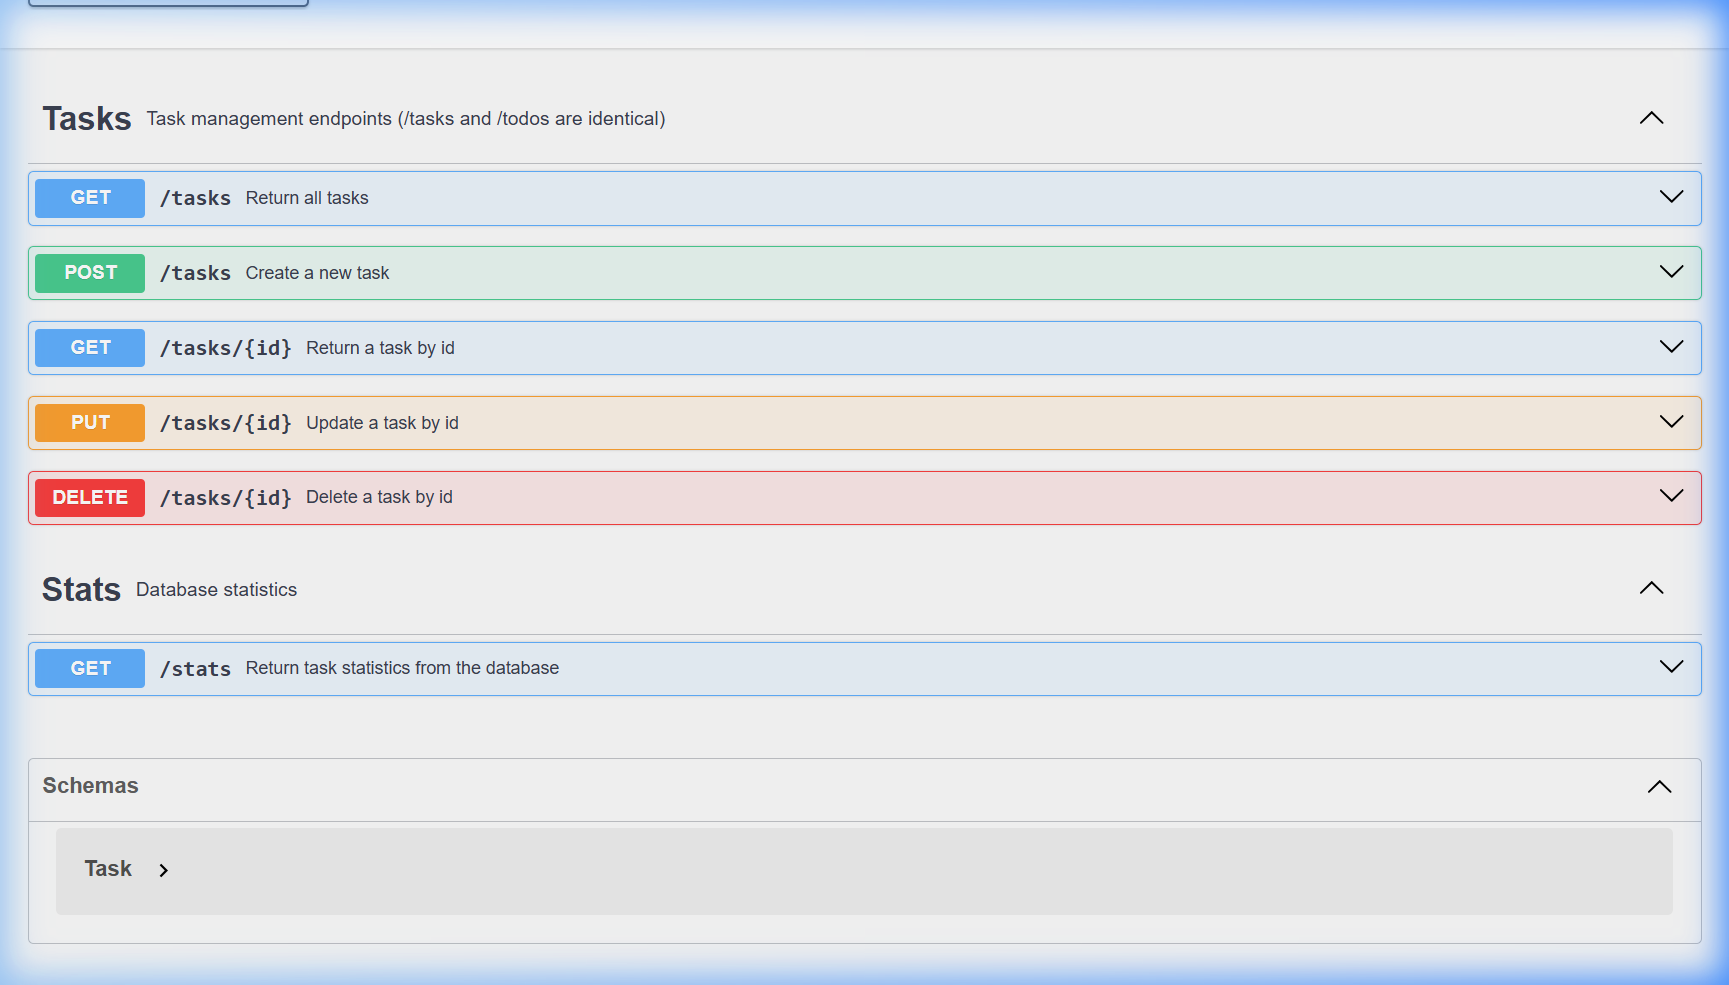
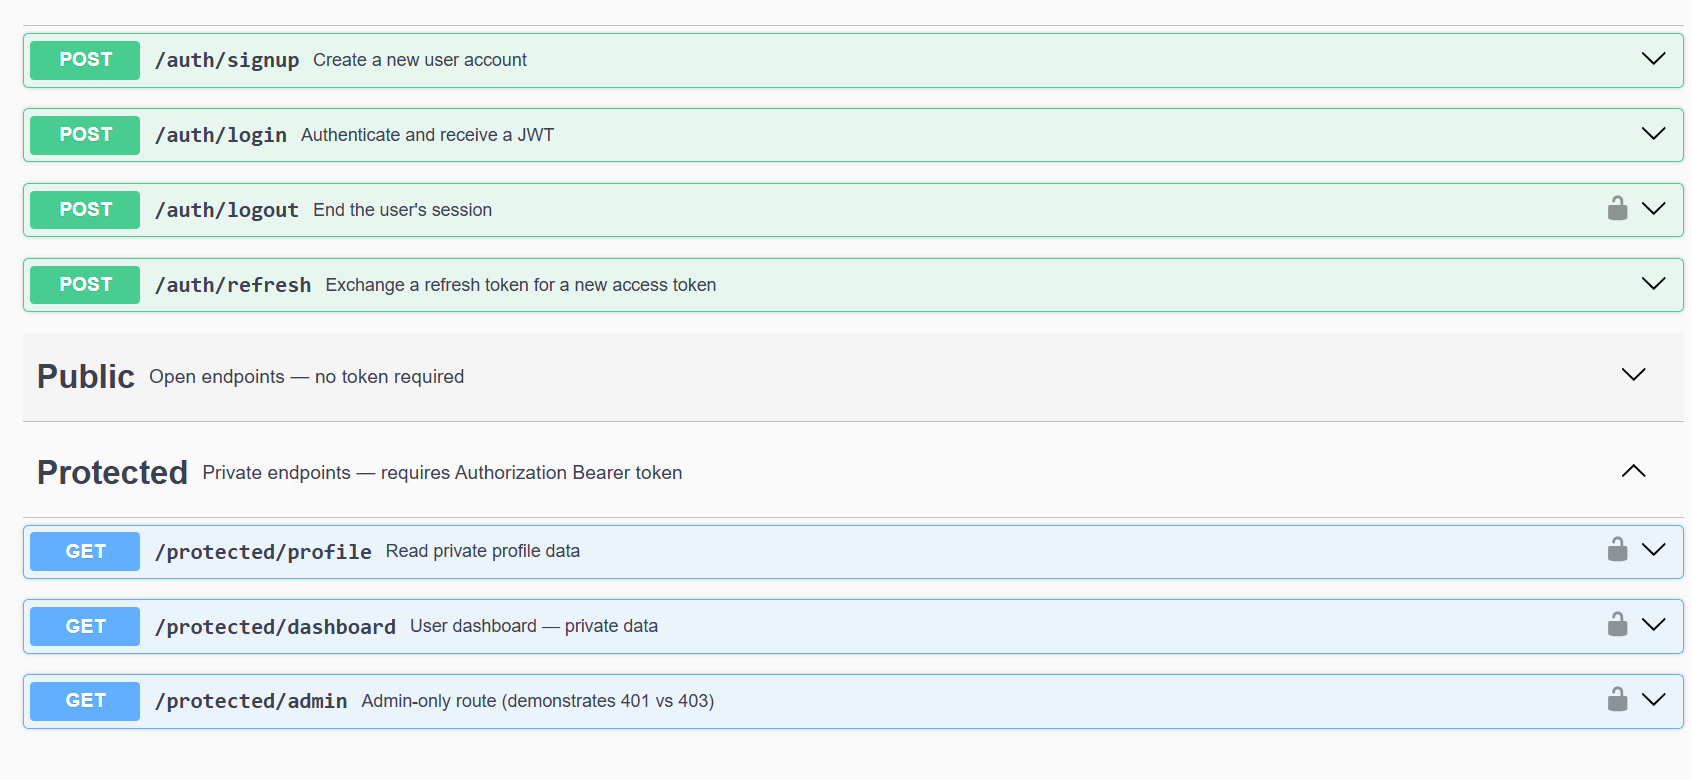
Stage 6: add Swagger screenshot to README

diff --git a/README.md b/README.md
@@ -161,7 +161,7 @@ When you call `POST /auth/logout`, Supabase invalidates the refresh token server
 
 ## Swagger Screenshot
 
-> Start the server and open `/docs` — the 🔒 padlock appears on all protected routes.
+![Swagger UI showing lock icons on protected routes](./swagger-screenshot.png)
 
 ---
 
